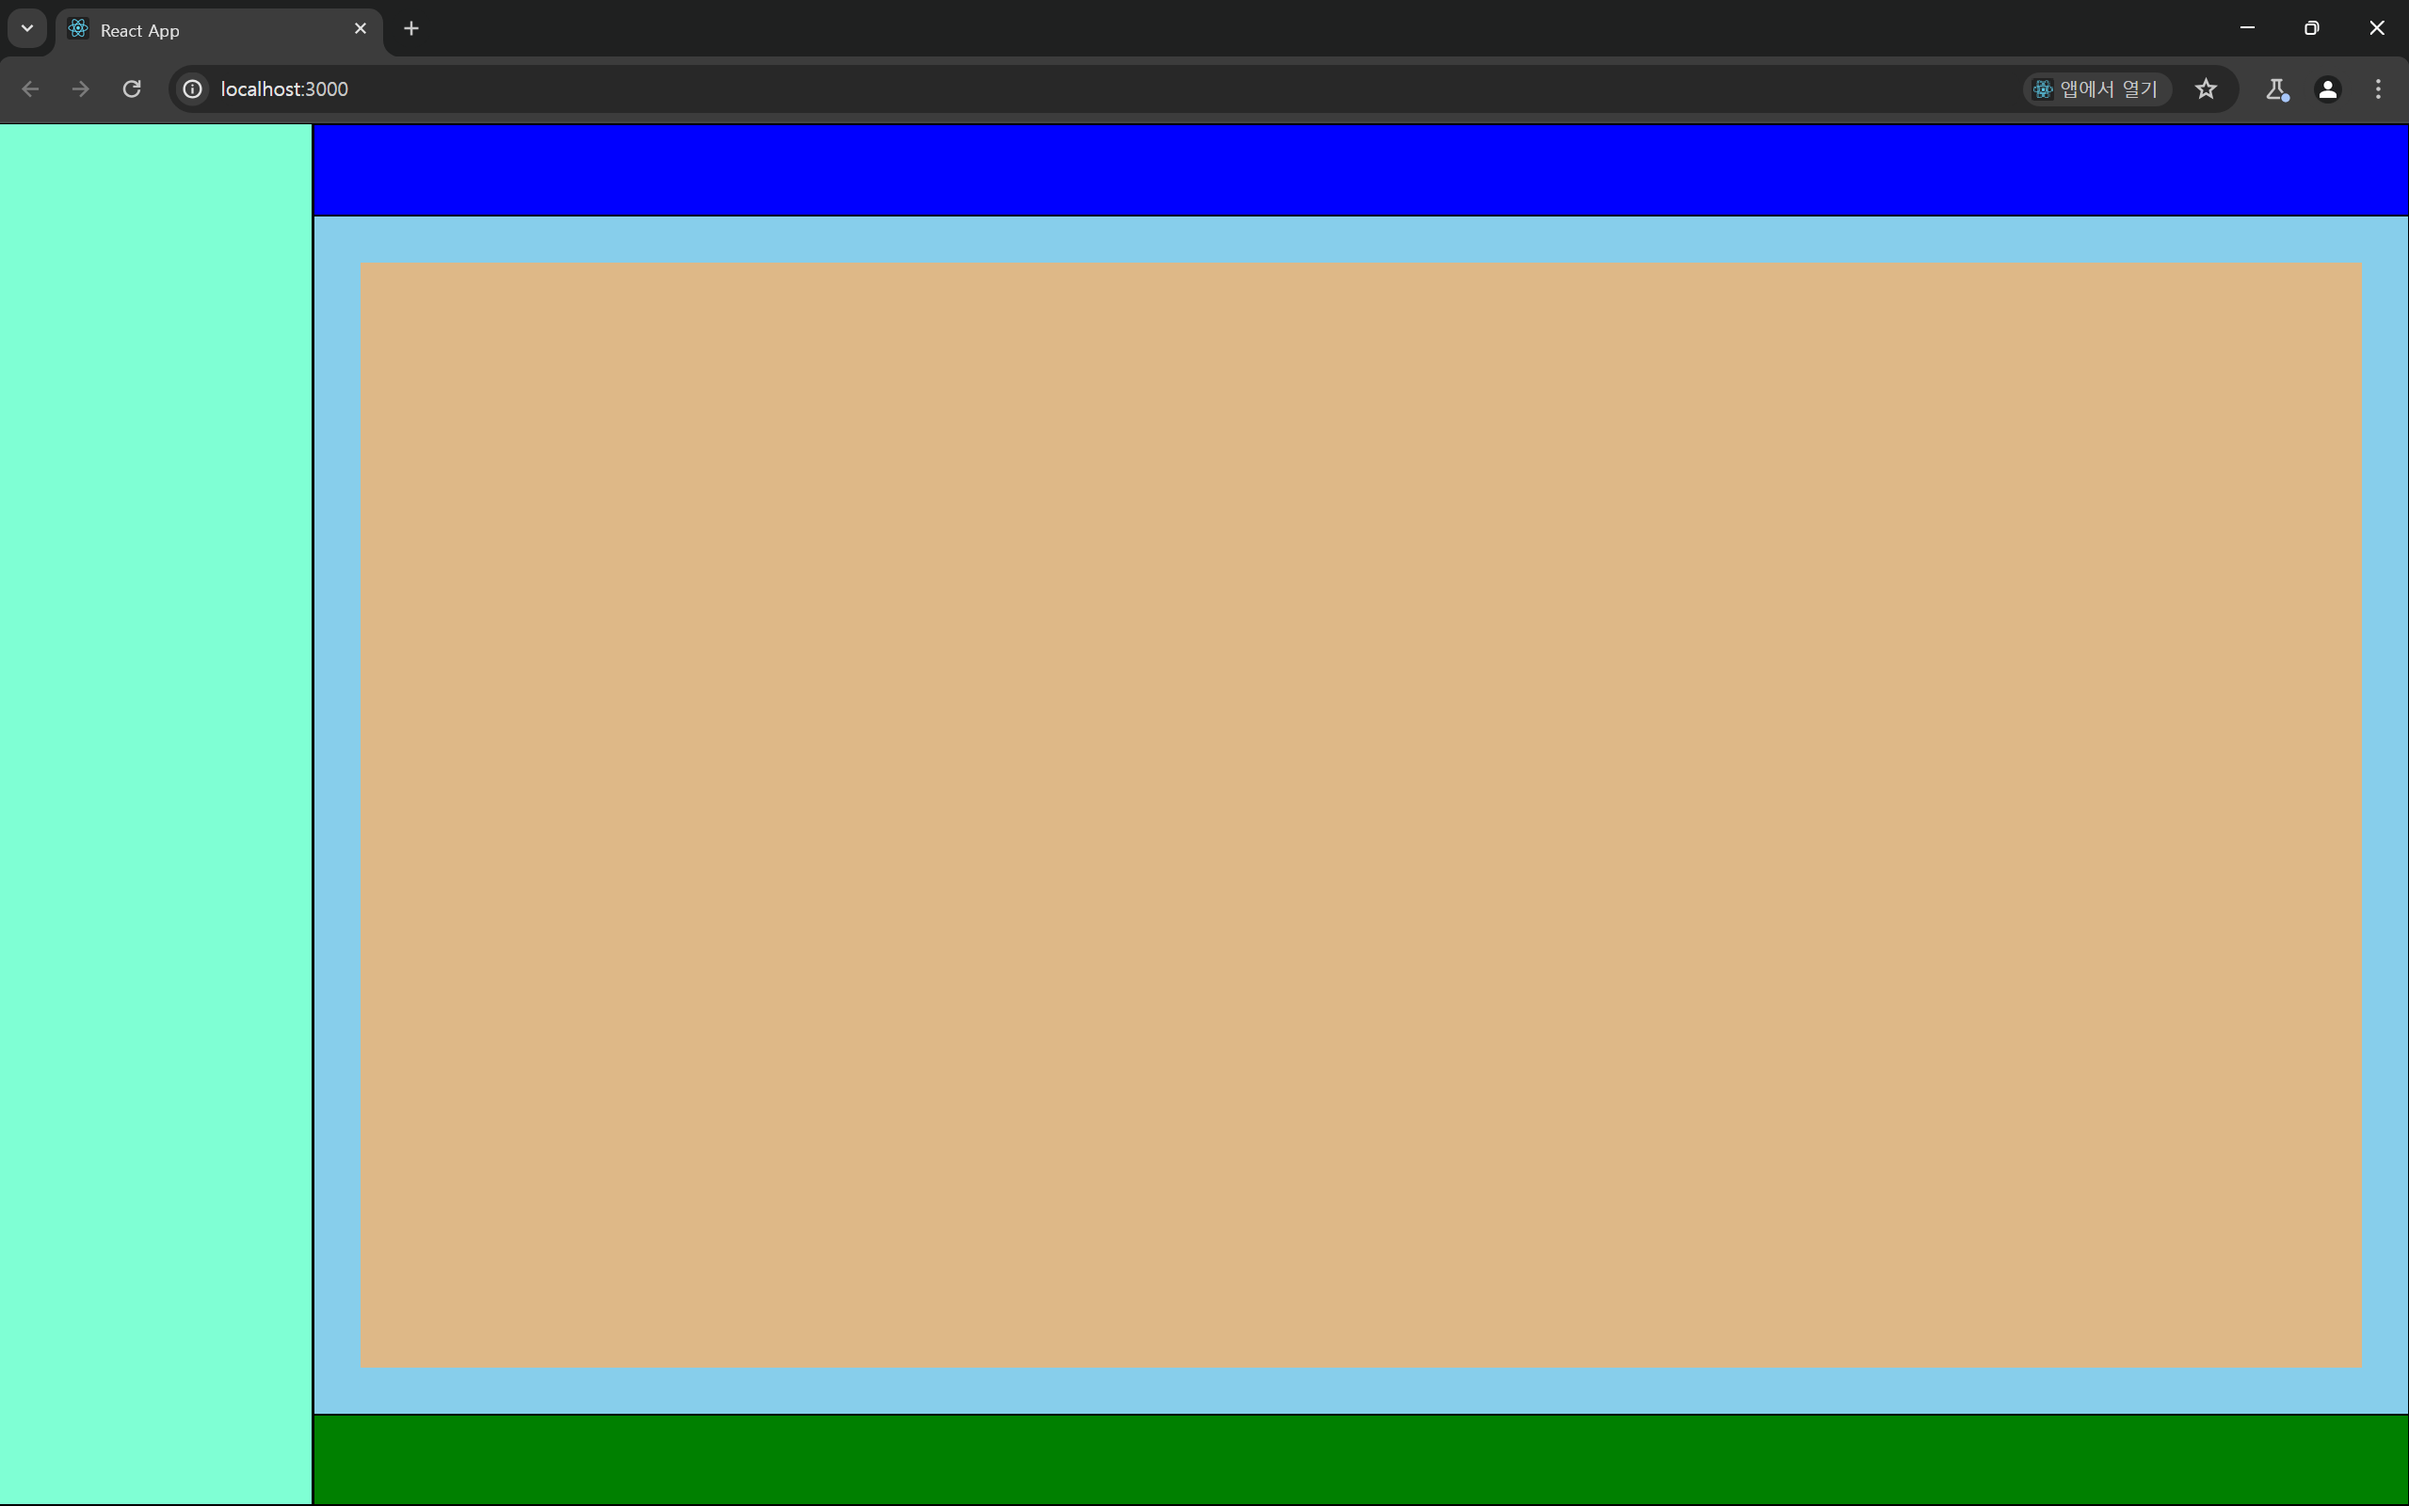
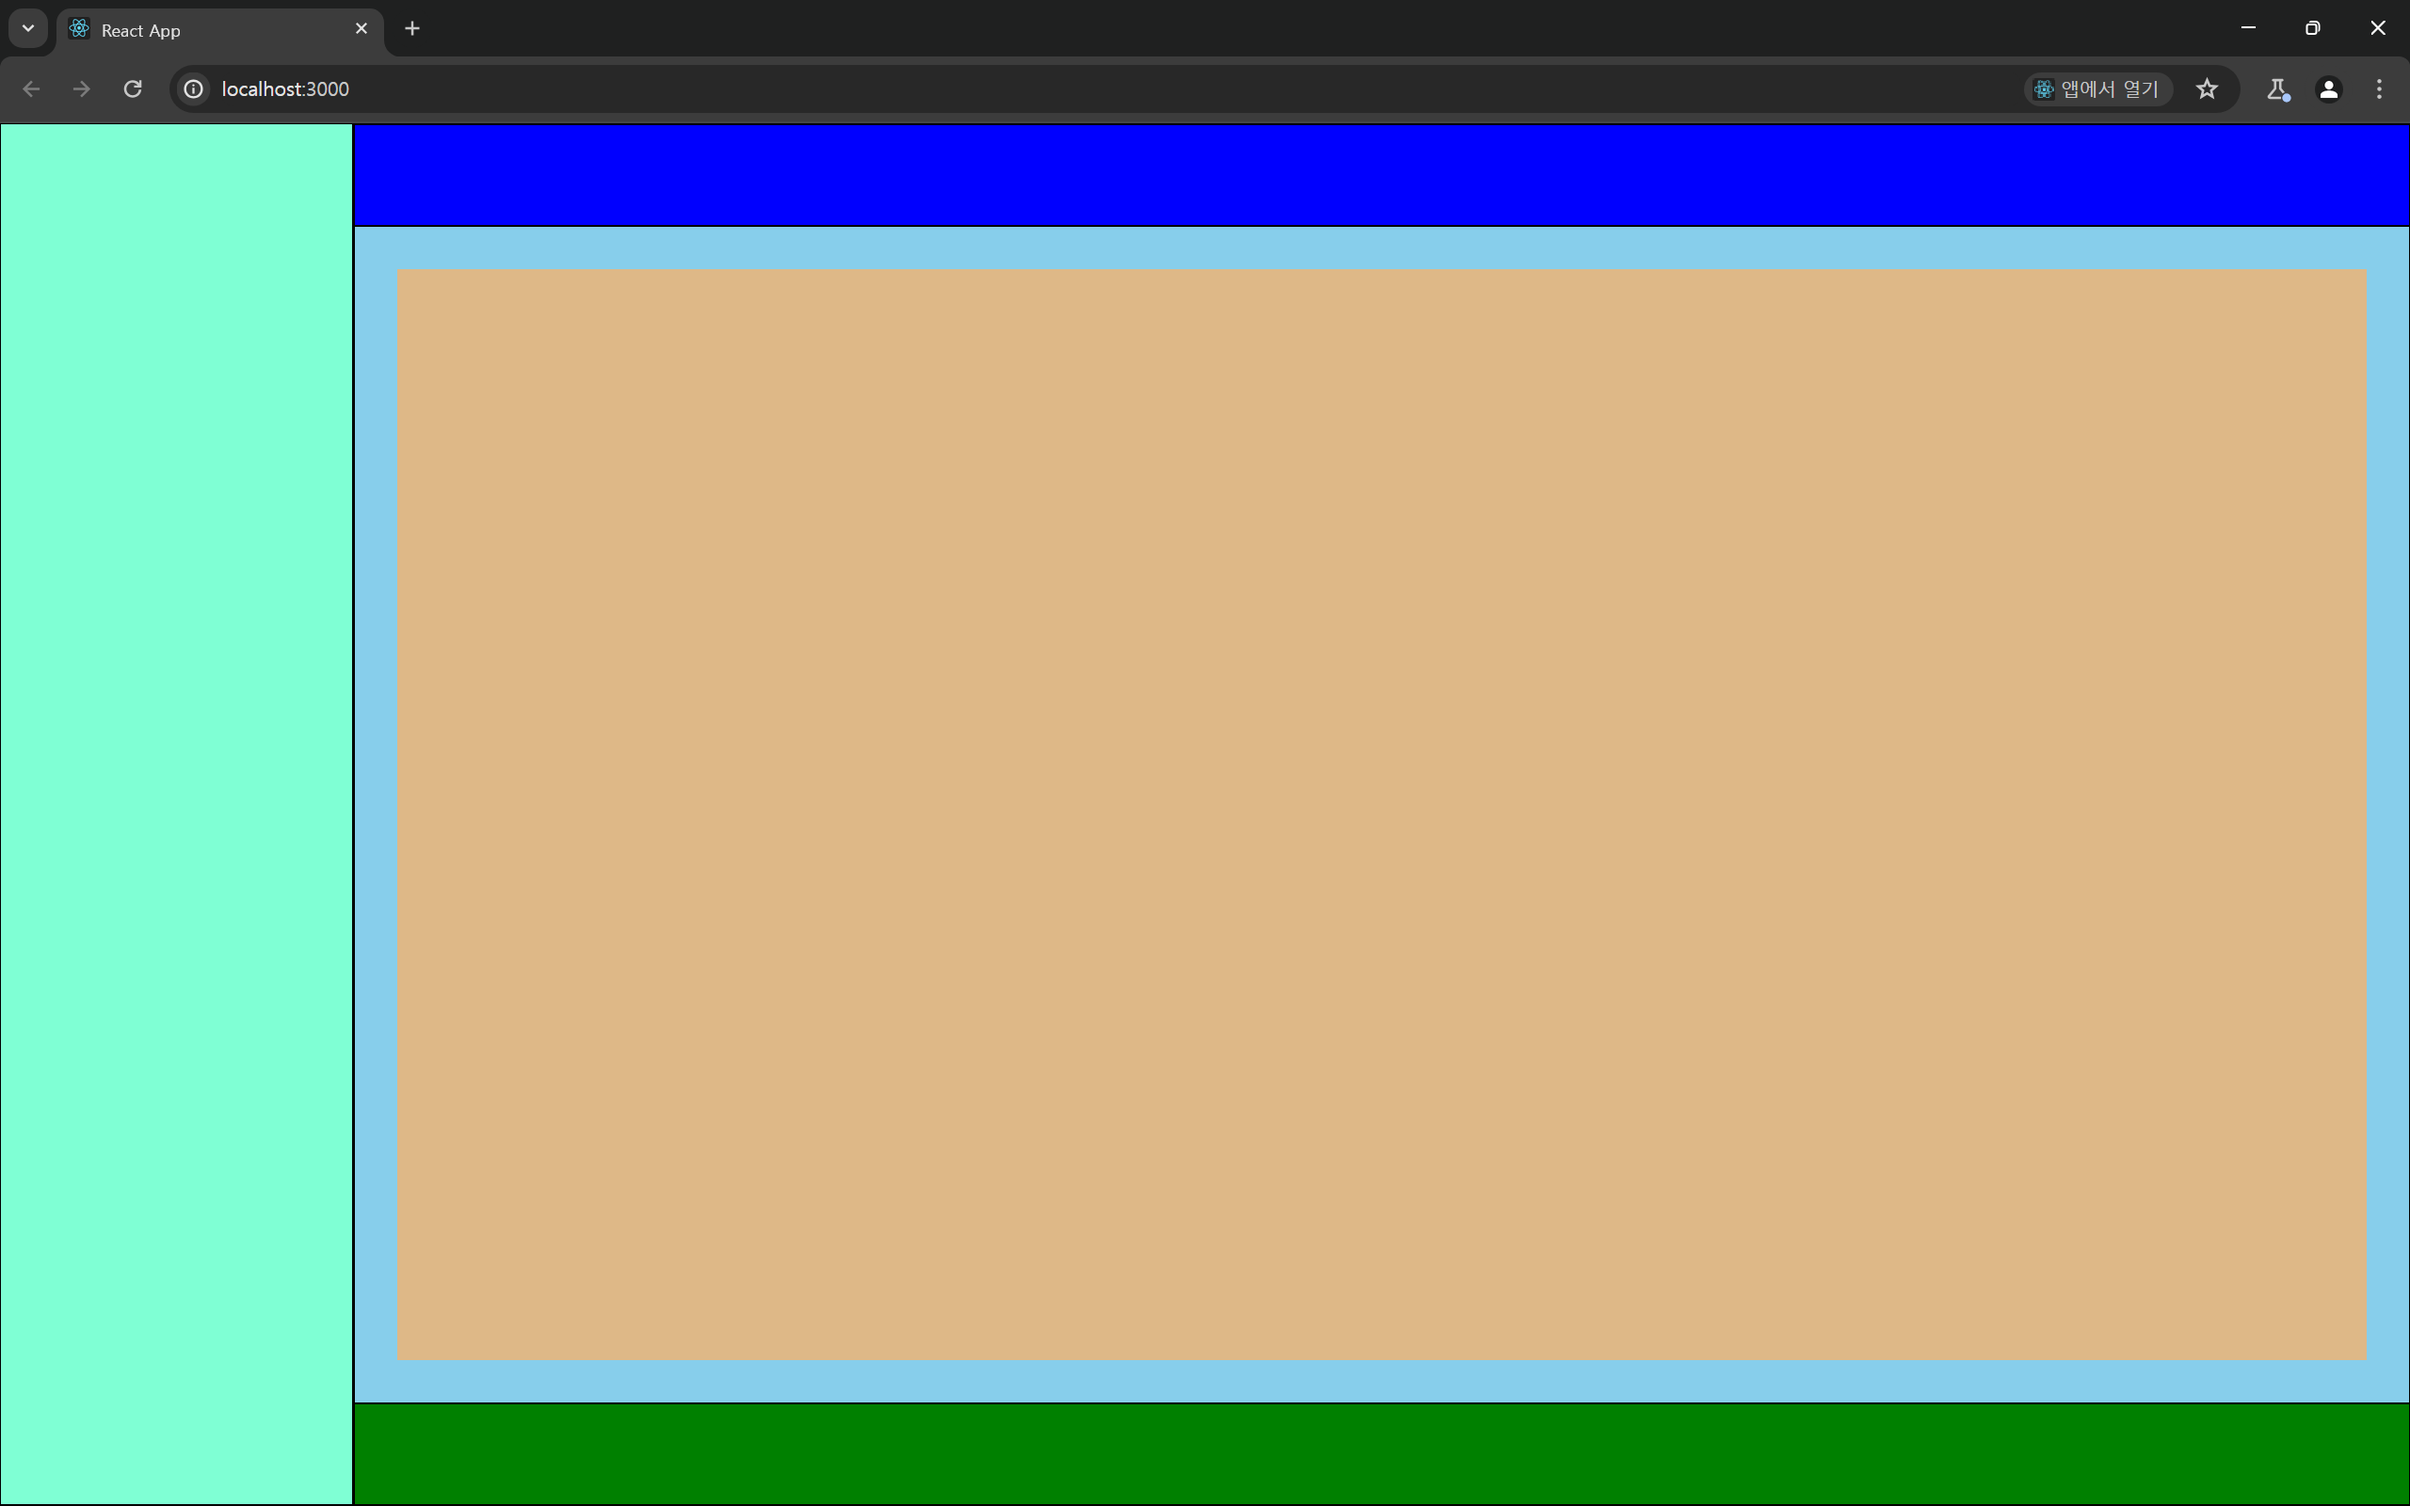
대시보드 전체 레이아웃 잡기

Changed region(s): [[0.0926, 0.0312, 1.0, 1.0], [0.0309, 0.0, 0.0617, 0.0312]]

diff --git a/docs/02.[Feature] 대시보드 레이아웃 잡기/[Feature] 대시보드 레이아웃 잡기.md b/docs/02.[Feature] 대시보드 레이아웃 잡기/[Feature] 대시보드 레이아웃 잡기.md
@@ -107,4 +107,7 @@ body {
 
 대충 스타일은 이렇게 했다.
 
-> 현재는 단순하게 `div` 태그를 이용해서 뚝딱거렸지만 실제로 할 떄는 시멘틱태그를 적절하게 이용는 것이 목표다.
+> - 현재는 단순하게 `div` 태그를 이용해서 뚝딱거렸지만 실제로 할 떄는 시멘틱태그를 적절하게 이용는 것이 목표다.
+> - 레이아웃에서 황토색이 있는 부분은 카드들이 들어갈 영역이다.
+
+# 카드 컴포넌트 랩퍼 레이아웃
